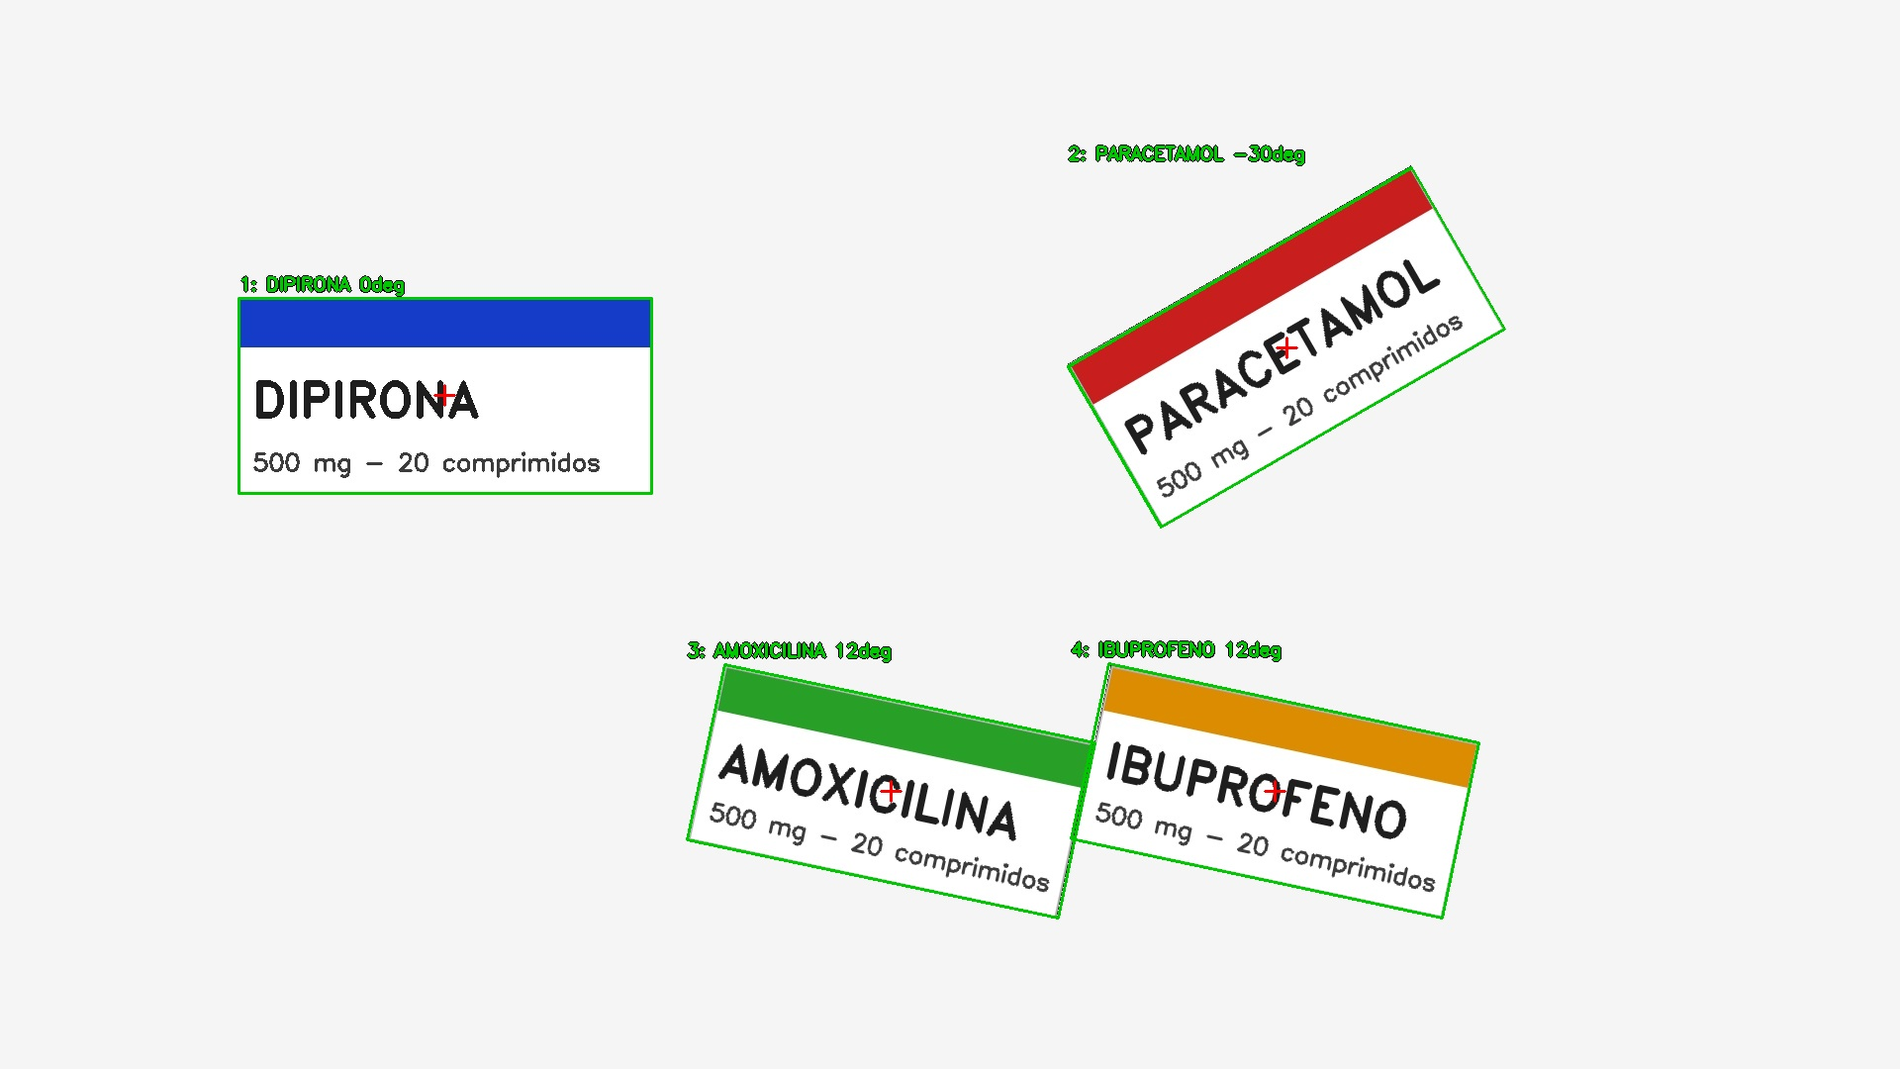
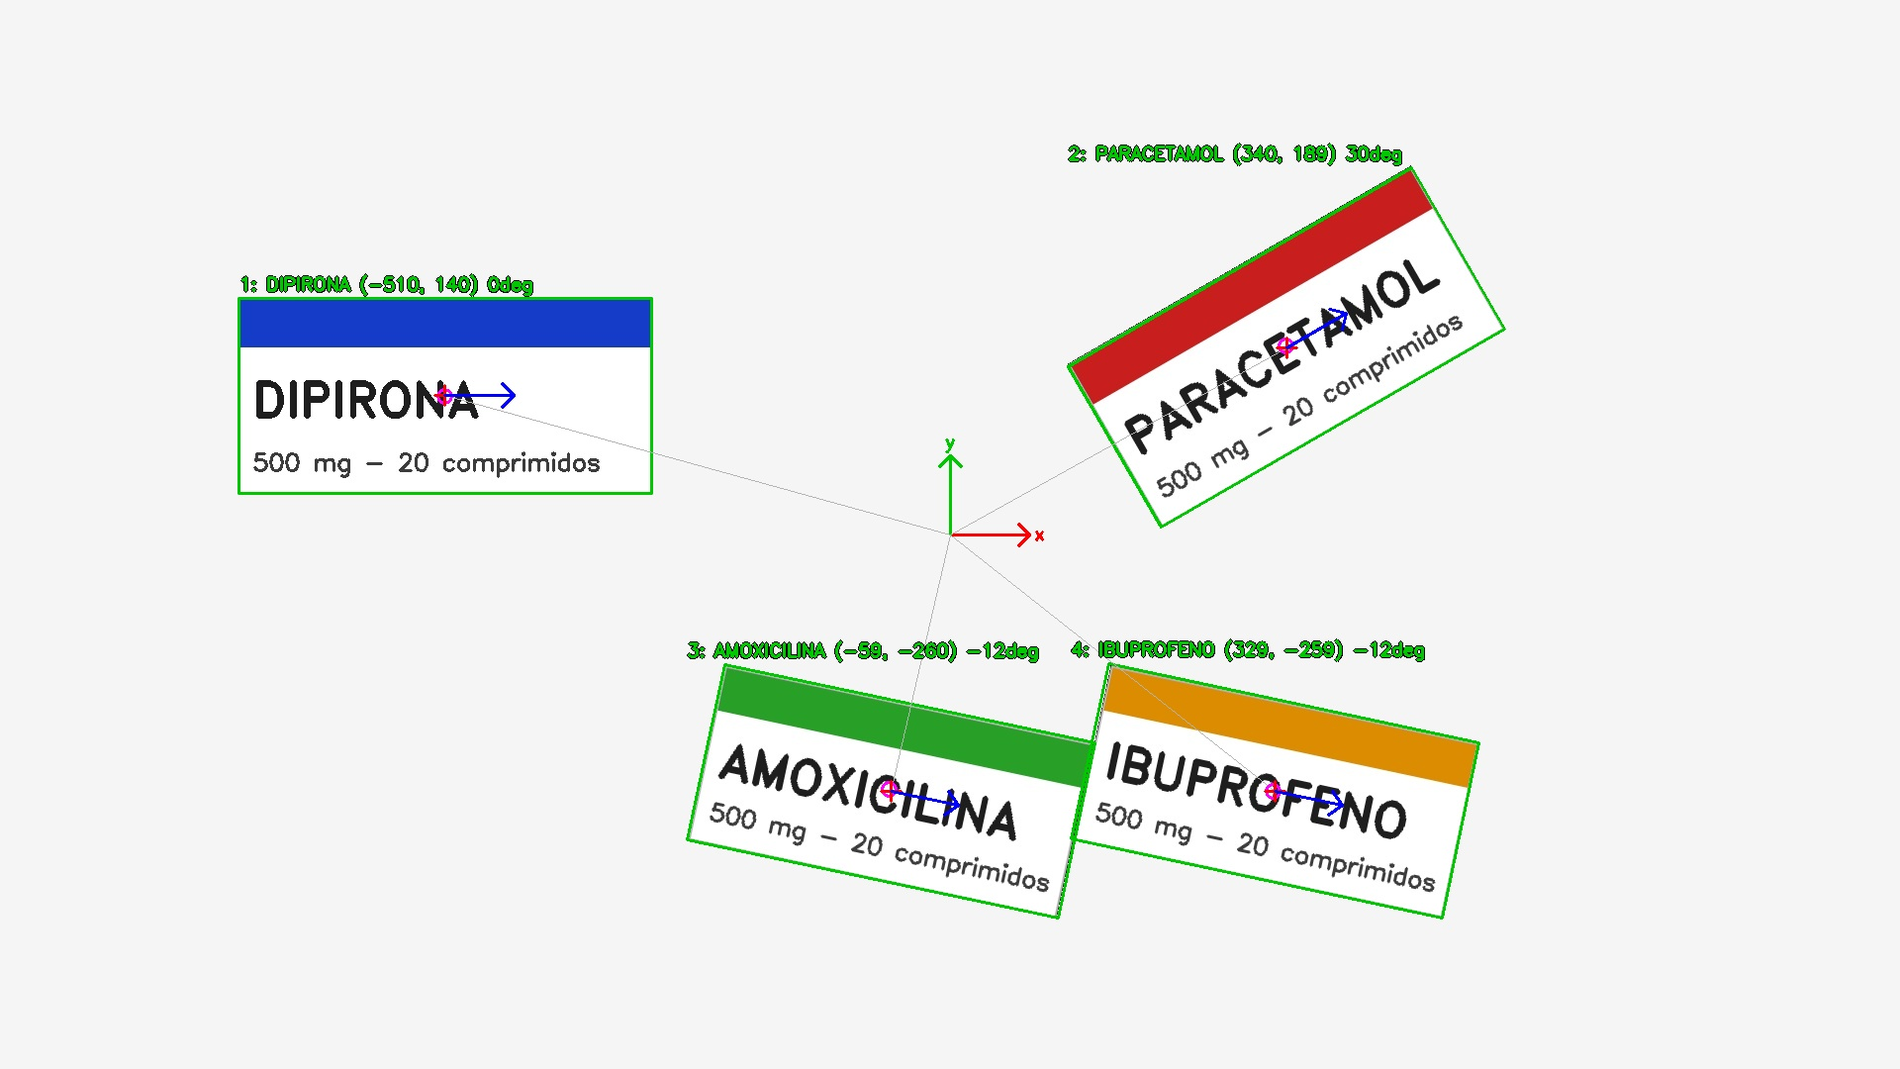
Gemini passa a devolver centro e eixo (ângulo) de cada caixa
- Saída relativa ao centro da câmera (x direita, y cima) com ângulo
  anti-horário, distância e direção polar.
- Ângulo da IA vem de dois pontos do eixo maior (evita erro de sinal).
- OpenCV valida/refina; os dois valores e a divergência ficam no JSON.
- Timeout por modelo e fallback em caso de lentidão.

diff --git a/vision_remedios.py b/vision_remedios.py
@@ -3,14 +3,17 @@
 Fluxo:
   1. A câmera é lida continuamente numa thread (sempre temos o frame mais recente).
   2. Quando a cena fica parada (ou ao apertar ESPAÇO) o frame é enviado ao Gemini.
-  3. O Gemini devolve as caixas (box_2d) e o texto escrito em cada uma.
-  4. O OpenCV refina cada caixa dentro da região indicada pelo Gemini
-     (contorno + minAreaRect), o que dá centro e ângulo com precisão de pixel.
+  3. O Gemini devolve cada caixa: centro, ângulo, box_2d e o texto escrito nela.
+  4. O OpenCV mede centro e ângulo de novo na região indicada pelo Gemini
+     (watershed + minAreaRect) e valida/refina o resultado da IA.
   5. O resultado é impresso como JSON e salvo em saida/ultimo_resultado.json.
 
-Coordenadas: pixels com origem no canto superior esquerdo (x -> direita, y -> baixo).
-angulo_graus é o ângulo do lado MAIOR da caixa em relação ao eixo x, em [-90, 90);
-positivo = girado no sentido horário na imagem.
+O Gemini e o OpenCV medem centro e ângulo de forma independente. Se concordam, usa-se
+o valor do OpenCV (precisão de pixel); senão, o do Gemini. Os dois ficam no JSON.
+
+Referencial da saída ("centro", "angulo_graus"): origem no CENTRO da câmera (imagem),
+x -> direita, y -> cima, em pixels. angulo_graus = ângulo do lado MAIOR da caixa em
+relação ao eixo x, em [-90, 90); positivo = anti-horário.
 
 Teclas na janela:
   ESPAÇO  analisa o frame atual agora
@@ -52,6 +55,11 @@ Regras:
 - Uma entrada por caixa física. Não junte caixas encostadas; não divida uma caixa em duas.
 - box_2d = [ymin, xmin, ymax, xmax] normalizado de 0 a 1000, justo nas bordas da caixa
   (inclua a caixa inteira, sem sombra e sem margem).
+- centro = [y, x] normalizado de 0 a 1000: o ponto central da face de cima da caixa
+  (onde as diagonais da caixa se cruzam). Seja o mais preciso possível: o robô vai pegar ali.
+- eixo = [[y1, x1], [y2, x2]] normalizado de 0 a 1000: os dois pontos nas extremidades do
+  EIXO MAIOR da caixa, ou seja, o ponto médio de cada um dos dois LADOS CURTOS da caixa.
+  A linha entre eles atravessa a caixa no sentido do comprimento, passando pelo centro.
 - Ignore sombras, reflexos, a mesa, o braço robótico, cabos e objetos que não sejam caixas de remédio.
 - "nome": nome comercial principal escrito na caixa (ou "" se ilegível).
 - "texto": todo o texto legível na face visível, na ordem de leitura, separado por " | ".
@@ -68,11 +76,13 @@ SCHEMA = {
                 "type": "object",
                 "properties": {
                     "box_2d": {"type": "array", "items": {"type": "integer"}},
+                    "centro": {"type": "array", "items": {"type": "integer"}},
+                    "eixo": {"type": "array", "items": {"type": "array", "items": {"type": "integer"}}},
                     "nome": {"type": "string"},
                     "texto": {"type": "string"},
                     "confianca": {"type": "number"},
                 },
-                "required": ["box_2d", "nome", "texto", "confianca"],
+                "required": ["box_2d", "centro", "eixo", "nome", "texto", "confianca"],
             },
         }
     },
@@ -153,15 +163,15 @@ class Segmentador:
         return cheia
 
 
-def separar_objetos(frame, mascara, caixas_px):
-    """Watershed usando o centro de cada caixa do Gemini como semente.
+def separar_objetos(frame, mascara, caixas_px, centros_px):
+    """Watershed usando o centro de cada caixa (dado pelo Gemini) como semente.
     Separa caixas encostadas que na máscara viram uma mancha só.
     Devolve uma máscara (imagem inteira) por caixa, na mesma ordem."""
     marcadores = np.zeros(mascara.shape, np.int32)
     k = cv2.getStructuringElement(cv2.MORPH_ELLIPSE, (15, 15))
     marcadores[cv2.dilate(mascara, k, iterations=2) == 0] = 1  # fundo certo
-    for i, (x1, y1, x2, y2) in enumerate(caixas_px):
-        centro = ((x1 + x2) // 2, (y1 + y2) // 2)
+    for i, ((x1, y1, x2, y2), centro) in enumerate(zip(caixas_px, centros_px)):
+        centro = (int(centro[0]), int(centro[1]))
         eixos = (max(2, int((x2 - x1) * 0.15)), max(2, int((y2 - y1) * 0.15)))
         cv2.ellipse(marcadores, centro, eixos, 0, 0, 360, i + 2, cv2.FILLED)
     cv2.watershed(cv2.GaussianBlur(frame, (5, 5), 0), marcadores)
@@ -228,7 +238,13 @@ class AnalisadorGemini:
         chave = os.getenv("GEMINI_API_KEY")
         if not chave:
             raise RuntimeError("Defina GEMINI_API_KEY no arquivo .env")
-        self.cliente = genai.Client(api_key=chave)
+        # Timeout por chamada e poucas tentativas: com modelo sobrecarregado é melhor
+        # pular logo para o próximo do que o SDK ficar repetindo por minutos.
+        timeout_s = float(os.getenv("GEMINI_TIMEOUT_S", "90"))
+        self.cliente = genai.Client(api_key=chave, http_options=types.HttpOptions(
+            timeout=int(timeout_s * 1000),
+            retry_options=types.HttpRetryOptions(attempts=1),
+        ))
         self.modelos = [modelo] + [m for m in MODELOS_RESERVA if m != modelo]
         self.modelo = modelo  # modelo que respondeu por último
 
@@ -251,9 +267,28 @@ class AnalisadorGemini:
                     ultimo_erro = e
                     continue
                 raise
+            except Exception as e:  # timeout / rede
+                print(f"[aviso] {modelo} falhou ({type(e).__name__}), tentando o próximo...", flush=True)
+                ultimo_erro = e
+                continue
             self.modelo = modelo
             return json.loads(resp.text).get("caixas", [])
         raise RuntimeError(f"Nenhum modelo Gemini respondeu: {ultimo_erro}")
+
+
+# Limites para considerar que Gemini e OpenCV estão falando da mesma caixa.
+DIVERGENCIA_MAX_CENTRO = 0.25   # fração do lado menor da caixa
+DIVERGENCIA_MAX_ANGULO = 15.0   # graus
+
+
+def normalizar_angulo(a):
+    return (a + 90) % 180 - 90
+
+
+def diferenca_angulo(a, b):
+    """Diferença entre orientações de caixa (simétricas a cada 180°), em [0, 90]."""
+    d = abs(a - b) % 180
+    return min(d, 180 - d)
 
 
 def analisar(frame, gemini, segmentador, H, conf_minima):
@@ -262,46 +297,93 @@ def analisar(frame, gemini, segmentador, H, conf_minima):
     t_gemini = time.perf_counter() - t0
 
     h_img, w_img = frame.shape[:2]
+    ox, oy = w_img / 2, h_img / 2
+
+    def relativo(x, y):
+        """Pixel da imagem -> referencial da câmera (origem no centro, y para cima)."""
+        return {"x": round(float(x - ox), 1), "y": round(float(oy - y), 1)}
+
     validas = []
     for det in brutas:
-        b = det.get("box_2d", [])
+        b, c = det.get("box_2d", []), det.get("centro", [])
         if len(b) != 4 or det.get("confianca", 0) < conf_minima:
             continue
         ymin, xmin, ymax, xmax = b
         x1, x2 = sorted((int(xmin / 1000 * w_img), int(xmax / 1000 * w_img)))
         y1, y2 = sorted((int(ymin / 1000 * h_img), int(ymax / 1000 * h_img)))
-        if x2 - x1 >= 5 and y2 - y1 >= 5:
-            validas.append((det, (x1, y1, x2, y2)))
+        if x2 - x1 < 5 or y2 - y1 < 5:
+            continue
+        if len(c) == 2:
+            gx, gy = c[1] / 1000 * w_img, c[0] / 1000 * h_img
+        else:
+            gx, gy = (x1 + x2) / 2, (y1 + y2) / 2
+        validas.append((det, (x1, y1, x2, y2), (gx, gy)))
 
     mascara = segmentador.mascara(frame)
-    regioes = separar_objetos(frame, mascara, [px for _, px in validas])
+    regioes = separar_objetos(frame, mascara, [v[1] for v in validas], [v[2] for v in validas])
     caixas = []
-    for (det, (x1, y1, x2, y2)), regiao in zip(validas, regioes):
-        b = det["box_2d"]
+    for (det, (x1, y1, x2, y2), (gx, gy)), regiao in zip(validas, regioes):
+        # Ângulo da IA a partir dos dois pontos do eixo maior (y para cima = sinal invertido).
+        g_ang, eixo = None, det.get("eixo", [])
+        if len(eixo) == 2 and all(len(p) == 2 for p in eixo):
+            (ya, xa), (yb, xb) = eixo
+            dx = (xb - xa) / 1000 * w_img
+            dy = (ya - yb) / 1000 * h_img
+            if np.hypot(dx, dy) > 5:
+                g_ang = normalizar_angulo(float(np.degrees(np.arctan2(dy, dx))))
+        gem = {"centro": relativo(gx, gy),
+               "angulo_graus": None if g_ang is None else round(g_ang, 1),
+               "eixo": [relativo(p[1] / 1000 * w_img, p[0] / 1000 * h_img) for p in eixo] if g_ang is not None else None,
+               "box_2d": det["box_2d"]}
+
         ref = refinar_caixa(regiao, (x1, y1, x2, y2))
+        ocv, diverg, concordam = None, None, False
         if ref:
+            # refinar_caixa mede na convenção da imagem (y para baixo): inverte o sinal.
+            o_ang = normalizar_angulo(-ref["angulo"])
+            ocx, ocy = ref["centro"]
+            ocv = {"centro": relativo(ocx, ocy), "angulo_graus": round(o_ang, 2)}
+            d_centro = float(np.hypot(ocx - gx, ocy - gy))
+            d_ang = None if g_ang is None else diferenca_angulo(o_ang, g_ang)
+            diverg = {"centro_px": round(d_centro, 1),
+                      "angulo_graus": None if d_ang is None else round(d_ang, 1)}
+            # O centro decide se é a mesma caixa. O ângulo divergente só gera alerta:
+            # a medida geométrica do OpenCV é mais confiável que a estimativa da IA.
+            concordam = d_centro <= DIVERGENCIA_MAX_CENTRO * min(ref["tamanho"])
+            diverg["alerta_angulo"] = d_ang is not None and d_ang > DIVERGENCIA_MAX_ANGULO
+
+        if concordam:
+            # Mesma caixa segundo os dois: usa o OpenCV, que tem precisão de pixel.
             cx, cy = ref["centro"]
+            angulo, fonte = ocv["angulo_graus"], "gemini+opencv"
             w, h = ref["tamanho"]
-            angulo, fonte = ref["angulo"], "opencv+gemini"
             pontos = ref["pontos"]
         else:
-            cx, cy = (x1 + x2) / 2, (y1 + y2) / 2
+            cx, cy, angulo = gx, gy, gem["angulo_graus"]
+            fonte = "gemini (opencv divergiu)" if ref else "gemini"
             w, h = max(x2 - x1, y2 - y1), min(x2 - x1, y2 - y1)
-            angulo, fonte = None, "gemini"
-            pontos = np.array([[x1, y1], [x2, y1], [x2, y2], [x1, y2]], dtype=np.float32)
+            if angulo is not None:
+                pontos = cv2.boxPoints(((cx, cy), (w, h), -angulo))
+            else:
+                pontos = np.array([[x1, y1], [x2, y1], [x2, y2], [x1, y2]], dtype=np.float32)
 
+        centro = relativo(cx, cy)
         item = {
             "id": len(caixas) + 1,
             "nome": det.get("nome", ""),
             "texto": det.get("texto", ""),
             "confianca": round(float(det.get("confianca", 0)), 3),
-            "centro_px": [round(cx, 1), round(cy, 1)],
-            "bbox_px": [x1, y1, x2, y2],
-            "cantos_px": [[round(float(x), 1), round(float(y), 1)] for x, y in pontos],
-            "tamanho_px": [round(w, 1), round(h, 1)],
-            "angulo_graus": None if angulo is None else round(angulo, 2),
-            "box_2d_gemini": b,
-            "fonte_posicao": fonte,
+            "centro": centro,
+            "angulo_graus": angulo,
+            "distancia_centro_px": round(float(np.hypot(centro["x"], centro["y"])), 1),
+            "direcao_graus": round(float(np.degrees(np.arctan2(centro["y"], centro["x"]))), 1),
+            "fonte": fonte,
+            "gemini": gem,
+            "opencv": ocv,
+            "divergencia": diverg,
+            "tamanho_px": [round(float(w), 1), round(float(h), 1)],
+            "centro_imagem_px": [round(float(cx), 1), round(float(cy), 1)],
+            "cantos_imagem_px": [[round(float(x), 1), round(float(y), 1)] for x, y in pontos],
         }
         if H is not None:
             item["centro_mm"] = [round(v, 2) for v in px_para_mm(H, cx, cy)]
@@ -311,6 +393,8 @@ def analisar(frame, gemini, segmentador, H, conf_minima):
         "timestamp": datetime.now().isoformat(timespec="milliseconds"),
         "modelo": gemini.modelo,
         "resolucao": [w_img, h_img],
+        "referencial": "origem no centro da câmera; x -> direita, y -> cima (px); "
+                       "angulo = lado maior da caixa vs eixo x, positivo = anti-horário",
         "tempo_gemini_s": round(t_gemini, 2),
         "calibrado_mm": H is not None,
         "total": len(caixas),
@@ -322,15 +406,30 @@ def analisar(frame, gemini, segmentador, H, conf_minima):
 
 def desenhar(frame, resultado):
     vis = frame.copy()
+    h_img, w_img = vis.shape[:2]
+    ox, oy = w_img // 2, h_img // 2
+    # Eixos do referencial da câmera.
+    cv2.arrowedLine(vis, (ox, oy), (ox + 80, oy), (0, 0, 255), 2, tipLength=0.2)
+    cv2.arrowedLine(vis, (ox, oy), (ox, oy - 80), (0, 200, 0), 2, tipLength=0.2)
+    cv2.putText(vis, "x", (ox + 85, oy + 5), cv2.FONT_HERSHEY_SIMPLEX, 0.6, (0, 0, 255), 2)
+    cv2.putText(vis, "y", (ox - 5, oy - 88), cv2.FONT_HERSHEY_SIMPLEX, 0.6, (0, 200, 0), 2)
     if not resultado:
         return vis
     for c in resultado["caixas"]:
-        cor = (0, 200, 0) if c["fonte_posicao"] == "opencv+gemini" else (0, 165, 255)
-        pts = np.array(c["cantos_px"], dtype=np.int32)
+        cor = (0, 200, 0) if c["fonte"] == "gemini+opencv" else (0, 165, 255)
+        pts = np.array(c["cantos_imagem_px"], dtype=np.int32)
         cv2.polylines(vis, [pts], True, cor, 2)
-        cx, cy = map(int, c["centro_px"])
+        cx, cy = map(int, c["centro_imagem_px"])
+        cv2.line(vis, (ox, oy), (cx, cy), (180, 180, 180), 1)
+        # Círculo magenta = centro dito pelo Gemini; cruz vermelha = centro final.
+        g = c["gemini"]["centro"]
+        cv2.circle(vis, (int(g["x"] + ox), int(oy - g["y"])), 7, (255, 0, 255), 2)
         cv2.drawMarker(vis, (cx, cy), (0, 0, 255), cv2.MARKER_CROSS, 20, 2)
-        rotulo = f'{c["id"]}: {c["nome"] or "?"}'
+        if c["angulo_graus"] is not None:  # seta na direção do lado maior
+            a = np.radians(c["angulo_graus"])
+            fim = (int(cx + 70 * np.cos(a)), int(cy - 70 * np.sin(a)))
+            cv2.arrowedLine(vis, (cx, cy), fim, (255, 0, 0), 2, tipLength=0.25)
+        rotulo = f'{c["id"]}: {c["nome"] or "?"} ({c["centro"]["x"]:.0f}, {c["centro"]["y"]:.0f})'
         if c["angulo_graus"] is not None:
             rotulo += f' {c["angulo_graus"]:.0f}deg'
         x0, y0 = pts[:, 0].min(), pts[:, 1].min()

diff --git a/README.md b/README.md
@@ -1,11 +1,11 @@
 # only-vision
 
-Sistema de visão para um braço robótico **SCARA**: localiza caixas de remédio sobre uma mesa branca e devolve, em JSON, a posição, o ângulo e o texto escrito em cada caixa.
+Sistema de visão para um braço robótico **SCARA**: localiza caixas de remédio sobre uma mesa branca e devolve, em JSON, o **centro de cada caixa e sua angulação em relação ao centro da câmera**, além do texto escrito nela.
 
 Combina duas coisas:
 
-- **Gemini (IA)** — encontra as caixas na imagem e lê o que está escrito nelas.
-- **OpenCV** — refina a posição de cada caixa com precisão de pixel (centro, tamanho e ângulo), inclusive separando caixas encostadas.
+- **Gemini (IA)** — encontra as caixas e devolve, para cada uma, o **centro**, o **eixo maior** (de onde sai o ângulo), a caixa delimitadora e o **texto** escrito nela.
+- **OpenCV** — mede centro e ângulo de forma independente, com precisão de pixel, e serve de validação da IA (inclusive separando caixas encostadas).
 
 ![Exemplo de detecção](docs/exemplo.jpg)
 
@@ -13,11 +13,15 @@ Combina duas coisas:
 
 1. A câmera é lida continuamente em uma thread (o frame analisado é sempre o mais recente).
 2. Quando a cena fica parada e mudou desde a última análise (ou ao apertar `ESPAÇO`), o frame é enviado ao Gemini.
-3. O Gemini devolve as caixas (`box_2d`), o nome e o texto de cada uma.
-4. O OpenCV segmenta os objetos da mesa, separa caixas encostadas com *watershed* (usando o centro de cada caixa do Gemini como semente) e calcula o retângulo rotacionado com `minAreaRect`.
-5. O resultado é impresso no terminal e salvo em `saida/ultimo_resultado.json` e `saida/ultimo_resultado.jpg`.
+3. O Gemini devolve, para cada caixa: `centro` (ponto), `eixo` (dois pontos nas pontas do eixo maior → ângulo), `box_2d`, `nome` e `texto`.
+   O ângulo é pedido como dois pontos, e não como número, porque modelos de IA localizam pontos muito bem mas costumam errar o sentido de rotação quando o ângulo é pedido diretamente.
+4. O OpenCV segmenta os objetos da mesa, separa caixas encostadas com *watershed* (usando o centro dado pelo Gemini como semente) e mede o retângulo rotacionado com `minAreaRect`.
+5. **Fusão:** se o centro do OpenCV bate com o do Gemini (até 25% do lado menor da caixa), usa-se o valor do OpenCV, que tem precisão de pixel (`fonte: "gemini+opencv"`). Se não bate, ou se o OpenCV não achou a caixa, usa-se o do Gemini (`fonte: "gemini"` / `"gemini (opencv divergiu)"`). Os dois valores sempre ficam no JSON. Diferença de ângulo acima de 15° gera `alerta_angulo`.
+6. O resultado é impresso no terminal e salvo em `saida/ultimo_resultado.json` e `saida/ultimo_resultado.jpg`.
 
-Se o modelo principal do Gemini estiver sobrecarregado, o código tenta automaticamente os modelos reserva (`MODELOS_RESERVA` em `vision_remedios.py`).
+Se o modelo principal do Gemini estiver sobrecarregado ou demorar mais que `GEMINI_TIMEOUT_S` (padrão 90 s), o código tenta automaticamente os modelos reserva (`MODELOS_RESERVA` em `vision_remedios.py`).
+
+Na imagem anotada: eixos x/y no centro da câmera, cruz vermelha = centro final, círculo magenta = centro dado pelo Gemini, seta azul = direção do lado maior (ângulo).
 
 ## Instalação
 
@@ -36,6 +40,7 @@ cp .env.example .env
 ```env
 GEMINI_API_KEY=sua_chave_aqui
 GEMINI_MODEL=gemini-3.8-flash
+GEMINI_TIMEOUT_S=90
 ```
 
 ## Uso
@@ -72,34 +77,55 @@ python vision_remedios.py --mascara          # mostra a máscara do OpenCV (debu
 
 ```json
 {
-  "timestamp": "2026-10-07T09:31:25.550",
+  "timestamp": "2026-10-07T10:05:58.401",
   "modelo": "gemini-robotics-er-2-preview",
   "resolucao": [1920, 1080],
-  "tempo_gemini_s": 23.65,
+  "referencial": "origem no centro da câmera; x -> direita, y -> cima (px); angulo = lado maior da caixa vs eixo x, positivo = anti-horário",
+  "tempo_gemini_s": 12.43,
   "calibrado_mm": false,
   "total": 1,
   "caixas": [
     {
       "id": 1,
-      "nome": "PARACETAMOL",
-      "texto": "PARACETAMOL | 500 mg - 20 comprimidos",
-      "confianca": 0.99,
-      "centro_px": [1300.1, 351.1],
-      "bbox_px": [1077, 165, 1520, 533],
-      "cantos_px": [[1171.9, 538.3], [1072.4, 366.0], [1426.8, 161.4], [1526.3, 333.8]],
-      "tamanho_px": [401.0, 187.9],
-      "angulo_graus": -30.0,
-      "box_2d_gemini": [153, 561, 494, 792],
-      "fonte_posicao": "opencv+gemini"
+      "nome": "AMOXICILINA",
+      "texto": "AMOXICILINA | 500 mg - 20 comprimidos",
+      "confianca": 1.0,
+      "centro": {"x": -59.4, "y": -259.6},
+      "angulo_graus": -12.0,
+      "distancia_centro_px": 266.3,
+      "direcao_graus": -102.9,
+      "fonte": "gemini+opencv",
+      "gemini": {
+        "centro": {"x": -61.4, "y": -257.0},
+        "angulo_graus": -12.6,
+        "eixo": [{"x": -245.8, "y": -218.2}, {"x": 124.8, "y": -301.3}],
+        "box_2d": [620, 362, 856, 574]
+      },
+      "opencv": {"centro": {"x": -59.4, "y": -259.6}, "angulo_graus": -12.0},
+      "divergencia": {"centro_px": 3.3, "angulo_graus": 0.6, "alerta_angulo": false},
+      "tamanho_px": [383.0, 181.0],
+      "centro_imagem_px": [900.6, 799.6],
+      "cantos_imagem_px": [[694.5, 848.3], [732.1, 671.3], [1106.7, 750.9], [1069.1, 927.9]]
     }
   ]
 }
 ```
 
-- **Coordenadas** em pixels, origem no canto superior esquerdo (x → direita, y → baixo).
-- **`angulo_graus`**: ângulo do lado maior da caixa em relação ao eixo x, em [-90, 90); positivo = sentido horário na imagem.
-- **`fonte_posicao`**: `opencv+gemini` quando o OpenCV refinou a posição (mais preciso); `gemini` quando usou só a caixa do Gemini (sem ângulo).
-- **`centro_mm`**: aparece quando existe calibração (ver abaixo).
+### Referencial
+
+Todas as coordenadas principais são **relativas ao centro da câmera** (centro da imagem):
+
+- **`centro`** `{x, y}` em pixels — x positivo para a **direita**, y positivo para **cima**.
+- **`angulo_graus`** — ângulo do **lado maior** da caixa em relação ao eixo x, em [-90, 90); **positivo = anti-horário**. 0° = caixa deitada na horizontal; ±90° = em pé.
+- **`distancia_centro_px`** / **`direcao_graus`** — a mesma posição em coordenadas polares (distância e direção do centro da câmera até a caixa; 0° = direita, 90° = cima).
+
+### Demais campos
+
+- **`fonte`** — de onde veio o valor final: `gemini+opencv` (os dois concordaram; usado o OpenCV), `gemini (opencv divergiu)` ou `gemini`.
+- **`gemini`** / **`opencv`** — o valor que cada um mediu, para comparação.
+- **`divergencia`** — diferença entre os dois (centro em px, ângulo em graus) e `alerta_angulo` se o ângulo divergir mais de 15°.
+- **`centro_imagem_px`** / **`cantos_imagem_px`** — posição na imagem (origem no canto superior esquerdo, y para baixo), útil para desenhar.
+- **`centro_mm`** — aparece quando existe calibração (ver abaixo).
 
 ## Calibração para milímetros
 
